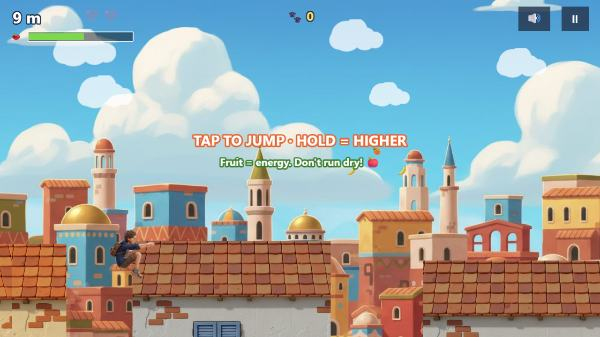
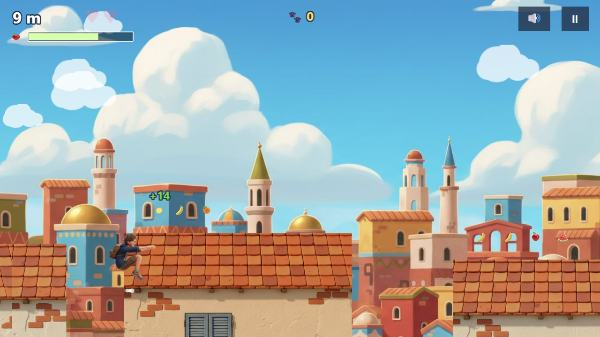
Portadas: fuera todo texto que no es del juego + Arca de Noah + recepción del hotel (órdenes de la fundadora)
- Hop & Run y Glitch Shift: capturas sin el hint del tutorial (clave de
  localStorage pre-inyectada al capturar) — ya no hay letras sobre el arte
- Noah: la escena final del Arca (WinScene) con arcoíris y desfile de
  animales, recortada sin cabecera ni botones
- Hotel Dino Blu: la RECEPCIÓN — letrero 'HOTEL DINO BLU ★★★', recepcionista,
  huésped y el mar por la cristalera (a comparar; volver al pasillo es 1 orden)
- hotel game.js: hook de debug window.__hdb {G, tp()} para capturas y smoke
  tests (mismo patrón que __dd en Dream Duo y __hr en Hop & Run)

diff --git a/index.html b/index.html
@@ -344,7 +344,7 @@
           <span class="playdot" aria-hidden="true">▶</span>
         </a>
         <a class="game" href="./noah/" style="background:linear-gradient(160deg,#2aa7e0,#0d4f80)" aria-label="Play Don't Drown, Noah!">
-          <img class="art" src="assets/covers/noah.jpg" alt="Don't Drown, Noah! gameplay" loading="lazy" decoding="async" width="347" height="750" />
+          <img class="art" src="assets/covers/noah.jpg" alt="Noah reaching the Ark" loading="lazy" decoding="async" width="390" height="610" />
           <div class="game-body">
             <span class="genre">Platform arcade</span>
             <h3>Don't Drown, Noah!</h3>

diff --git a/hotel-dino-blu/game.js b/hotel-dino-blu/game.js
@@ -105,6 +105,16 @@ const G = {
 
 const SOLID = {};   // colisiones por planta: SOLID[f] = [{x0,x1,z0,z1},...]
 const BOUNDS = {};  // límites andables por planta
+
+// Hook de debug/herramientas (patrón del estudio: __dd en Dream Duo, __hr en
+// Hop & Run): teletransporte para capturas y smoke tests. Sin efecto en juego.
+if (typeof window !== 'undefined') window.__hdb = {
+  G,
+  tp(f, x, z, yaw = Math.PI, pitch = 0) {
+    G.floor = f; setAreaVisibility(f);
+    G.px = x; G.pz = z; G.yaw = yaw; G.pitch = pitch;
+  },
+};
 const HOTSPOTS = [];
 const NPCS = [];
 const DRUMS = [];   // tambores de lavadoras que giran
